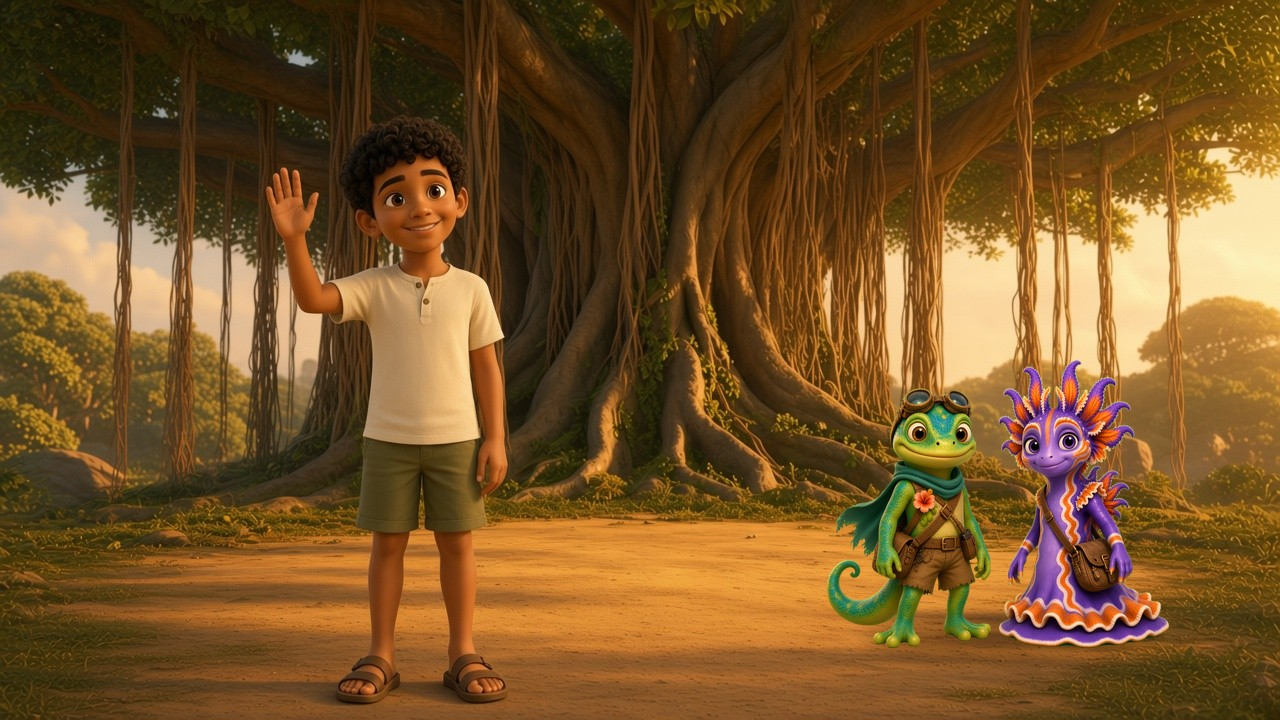
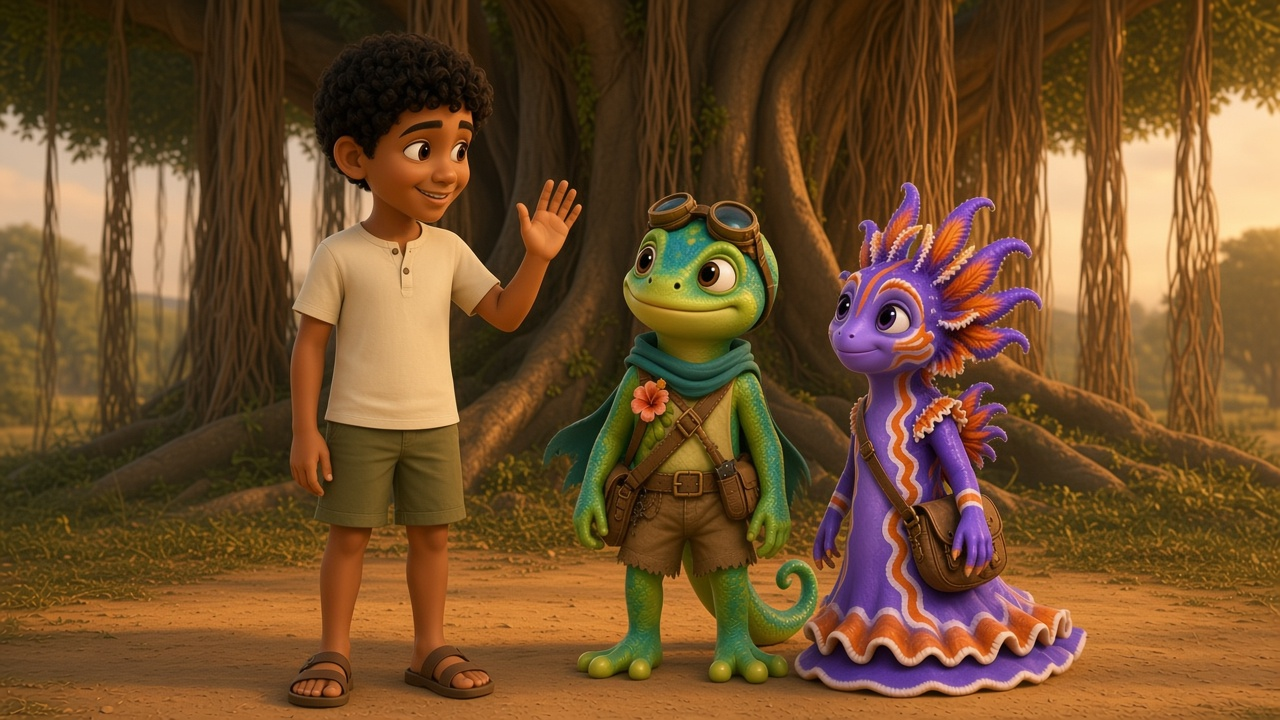
Enlarge the story pictures and paint Sam with Zip and Frill.
Story pages fill most of a laptop screen, and the satchel sentence no longer sits on the picture. Build a word uses large letter tiles. Zip and Frill sticker overlays are off the map, celebrations, and goodbye screen. Sam's first page is one painted scene. Repeat speaks if autoplay is blocked, and the sound-off button stays hidden. Cache ir-20261127u.

diff --git a/js/u11trail.js b/js/u11trail.js
@@ -321,7 +321,13 @@
     home.addEventListener('click', () => go('#/home'));
     back.addEventListener('click', () => { Snd.stop(); clearTimeout(timer); doBack(); });
     forward.addEventListener('click', () => { Snd.stop(); clearTimeout(timer); doNext(); });
-    repeat.addEventListener('click', () => { Snd.stop(); replay(); });
+    repeat.addEventListener('click', () => {
+      Snd.stop();
+      Snd.hideFallback();
+      Snd.unlocked = true;
+      Snd.manual = true;
+      Promise.resolve(replay()).then(() => { Snd.manual = false; }, () => { Snd.manual = false; });
+    });
     const corner = o.corner || 'unit';
     const bar = h('div', { class: 'u11t-bar' + (corner === 'home' ? ' is-home' : ' is-unit') },
       corner === 'home' ? home : unitBtn);
@@ -331,6 +337,7 @@
     screen = h('div', { class: 'screen u11trail' + (showNext ? ' u11t-preview' : ''), 'data-view': o.view || '' },
       bar, top, stage, countEl,
       h('div', { class: 'lesson-nav ir-controls u11t-nav' }, back, repeat, forward));
+    Snd.hideFallback();
     app.append(screen);
     const ctx = {
       stage: stage,
@@ -497,16 +504,8 @@
     if (!endLocked || demo()) end.addEventListener('click', () => { location.hash = '#/u1/u11/trail/end'; });
     else end.disabled = true;
     board.append(end);
-    const toI = Math.min(here, list.length - 1);
-    const fromI = st.moveFrom == null ? toI : Math.min(st.moveFrom, list.length - 1);
     if (st.moveFrom != null) { st.moveFrom = null; save(st); }
-    const marker = h('div', {
-      class: 'u11t-marker',
-      style: 'left:' + list[fromI].x + '%;top:' + list[fromI].y + '%'
-    }, h('span', { class: 'u11t-ground' }), h('img', { src: 'img/u11-zip-frill.png', alt: 'Zip and Frill' }));
-    board.append(marker);
     view.stage.append(h('div', { class: 'u11t-mapwrap' }, gems, board));
-    walkPair(marker, list, fromI, toI, view.scr);
     view.setReplay(() => Snd.play('audio/phonemes/a.mp3'));
   }
 
@@ -602,9 +601,6 @@
     });
     const prize = fresh ? stop.gemName.charAt(0).toUpperCase() + stop.gemName.slice(1) + '.' : 'Gem safe.';
     view.stage.append(h('div', { class: 'u11t-celebrate' },
-      h('div', { class: 'u11t-cast' },
-        h('span', { class: 'u11t-ground' }),
-        h('img', { src: 'img/u11-zip-frill-cheer.png', alt: 'Zip and Frill' })),
       h('img', { class: 'prize', src: stop.gem, alt: '' }),
       h('p', { class: 'u11t-line' }, prize)));
     Snd.seq([SFX.ding, SFX.done], 120);
@@ -621,9 +617,6 @@
       onNext() { location.hash = '#/u1/u11'; }
     });
     view.stage.append(h('div', { class: 'u11t-card' },
-      h('div', { class: 'u11t-faces' },
-        h('img', { src: POSE.cheer, alt: 'Zip' }),
-        h('img', { src: POSE.frillcheer, alt: 'Frill' })),
       h('p', { class: 'u11t-line' }, 'Great job, see you next time.')));
     view.setReplay(() => Snd.play(SFX.done));
     Snd.play(SFX.done);
@@ -786,7 +779,7 @@
         onBack() { ctx.prev(); }
       });
       view.stage.append(h('div', { class: 'u11t-card' },
-        h('img', { class: 'u11t-scene', src: 'img/u11-guides.jpg', alt: 'Zip and Frill in the banyan' }),
+        h('img', { class: 'u11t-scene', src: 'img/u11-forest-wide.jpg', alt: 'The banyan forest' }),
         h('div', { class: 'u11t-letter' }, 'a'),
         h('p', { class: 'u11t-line' }, 'The a says /a/.'),
         h('p', { class: 'u11t-line' }, 'Open wide.'),
@@ -1337,9 +1330,6 @@
       view.setCount(spec.steps.length + ' of ' + spec.steps.length);
       view.stage.append(h('div', { class: 'u11-build', 'data-finale': spec.scene },
         scene,
-        h('div', { class: 'u11t-faces' },
-          h('img', { src: spec.scene === 'raft' ? POSE.surf : POSE.cheer, alt: 'Zip' }),
-          h('img', { src: POSE.frillcheer, alt: 'Frill' })),
         h('p', { class: 'u11t-line' }, spec.done)));
       paintParts();
       step = spec.steps.length;
@@ -1512,7 +1502,7 @@
         onBack() { if (i > 0) { i--; show(); } else if (o.back) o.back(); else finish(); }
       });
       const line = lines[i].line || lines[i];
-      const art = lines[i].art || 'img/u11-guides.jpg';
+      const art = lines[i].art || 'img/u11-forest-wide.jpg';
       view.stage.append(h('div', { class: 'u11t-card' },
         h('img', { class: 'u11t-scene', src: art, alt: '' }),
         h('p', { class: 'u11t-line' }, wordNode(line))));
@@ -1565,9 +1555,6 @@
     for (let i = 0; i < 5; i++) bells.append(h('img', { src: 'img/bell_lit.png', alt: '' }));
     view.stage.append(h('div', { class: 'u11t-card' },
       bells,
-      h('div', { class: 'u11t-faces' },
-        h('img', { src: POSE.bell, alt: 'Zip' }),
-        h('img', { src: POSE.frill, alt: 'Frill' })),
       h('p', { class: 'u11t-joke' }, 'I tap a pan.'),
       h('p', { class: 'u11t-joke' }, 'I tap a map.'),
       h('p', { class: 'u11t-rec' }, 'Recording needed: Zip and Frill say the joke. The bell sounds are ready.')));

diff --git a/u11trail.css b/u11trail.css
@@ -332,8 +332,38 @@ body:not(.teach) .u11t-rec{display:none}
 .u11-scene{position:relative;width:min(100%,34rem);aspect-ratio:16/9;height:auto;max-height:28vh;flex:0 1 auto;min-height:0}
 .u11-satchel{width:auto;height:auto;max-height:none;aspect-ratio:auto}
 .u11-satchel .satchel-art{
-  display:block;width:auto;height:auto;max-width:min(100%,40rem);max-height:min(32vh,15rem);
+  display:block;width:auto;height:auto;max-width:min(62vw,16rem);max-height:22vh;
   object-fit:contain;object-position:center;border-radius:1rem;border:3px solid #2B2540;background:transparent
+}
+@media (max-width:899px){
+  .u11-build{justify-content:flex-start;gap:.55rem;padding-top:.15rem}
+  .u11-build .u11t-line{flex:none;margin:.15rem 0 .05rem}
+  .u11-build .u11t-choice{min-height:4.8rem}
+  .u11-satchel .satchel-art{max-height:20vh;max-width:min(70vw,14rem)}
+}
+@media (min-width:900px){
+  .u11t-book{width:min(100%,92rem);gap:.35rem}
+  .u11t-book .u11t-line{font-size:clamp(2rem,4.4vh,3.1rem)}
+  .u11t-page{width:auto;max-width:100%}
+  .u11t-book .u11t-scene{max-width:80vw;max-height:62vh}
+  .u11trail[data-view="picsent"] .u11t-pic,
+  .u11trail[data-view="picsent"] .u11t-scene{flex:0 0 auto;max-width:min(78vw,62rem);max-height:48vh}
+  .u11trail[data-view="picsent"] .u11t-choice{min-height:clamp(5rem,12vh,7rem)}
+  .u11-build{gap:.85rem}
+  .u11-build .u11t-line{flex:none;position:relative;z-index:2;background:#FFF8E7;padding:.05rem .5rem}
+  .u11-satchel .satchel-art{max-width:min(38vh,18rem);max-height:min(38vh,18rem)}
+  .u11trail[data-view="buildword"] .u11t-prompt{font-size:clamp(2rem,4.6vh,3rem);margin:.2rem 0 .45rem}
+  .u11trail[data-view="buildword"] .u11t-choice{min-height:clamp(8.2rem,22vh,13rem);font-size:clamp(3.2rem,7vh,4.8rem)}
+  .u11trail[data-view="buildword"] .u11t-slot{min-width:clamp(7.4rem,16vh,11rem);height:clamp(7.4rem,16vh,11rem);font-size:clamp(3.6rem,8vh,5.4rem)}
+}
+@media (max-height:740px) and (min-width:900px){
+  .u11t-book .u11t-scene{max-height:56vh;max-width:78vw}
+  .u11trail[data-view="picsent"] .u11t-pic,
+  .u11trail[data-view="picsent"] .u11t-scene{max-height:34vh;max-width:70vw}
+  .u11-satchel .satchel-art{max-width:min(36vh,18rem);max-height:min(36vh,18rem)}
+  .u11trail[data-view="buildword"] .u11t-choice{min-height:clamp(6.6rem,18vh,9rem);font-size:clamp(2.6rem,5.5vh,3.6rem)}
+  .u11trail[data-view="buildword"] .u11t-slot{min-width:clamp(5.8rem,12vh,8rem);height:clamp(5.8rem,12vh,8rem);font-size:clamp(2.8rem,6vh,4rem)}
+  .u11trail[data-view="buildword"] .u11t-prompt{font-size:clamp(1.6rem,3.4vh,2.2rem)}
 }
 .pack{position:absolute;width:18%;border-radius:.35rem;opacity:0;transform:translateY(-10px) scale(.7);transition:.4s}
 .pack.is-on{opacity:1;transform:none}

diff --git a/styles.css b/styles.css
@@ -3872,7 +3872,7 @@ html.teach .u5step .sentact .tile.word{font-size:clamp(1.7rem,4vh,2.4rem)!import
 .slidecalm .slide-controls .ir-btn .ico{width:1.15rem;height:1.15rem;flex:none}
 .slidecalm .slide-controls .ir-btn:disabled{opacity:.4}
 .tmfile.tmsmall,.teachlink.tmsmall{min-height:0;margin:.1rem .15rem .2rem;padding:.05rem;border:0;background:transparent;box-shadow:none;color:#5c5648;font-size:.85rem;font-weight:700;text-decoration:underline}
-body:has(.tmscreen) #soundfix,body:has(.u123step) #soundfix,body:has(.u789step) #soundfix,body:has(.slidecalm) #soundfix{display:none!important}
+body:has(.tmscreen) #soundfix,body:has(.u123step) #soundfix,body:has(.u789step) #soundfix,body:has(.slidecalm) #soundfix,body:has(.u11trail) #soundfix{display:none!important}
 .u123step .nkmeet,.u789step .nkmeet{gap:.25rem}
 .u123step .nkmeet .bubble,.u789step .nkmeet .bubble{padding:.35rem .65rem}
 .u123step .nkmeet .bubble p,.u789step .nkmeet .bubble p{font-size:1.02rem;line-height:1.2;margin:.1rem 0 0}

diff --git a/js/core.js b/js/core.js
@@ -264,7 +264,7 @@
     showFallback() {
       this.blocked = true; if ($('#soundfix')) return;
       /* Teacher materials and Units 1-3 / 7-9 have no sound-off control. */
-      if (/^#\/teachers/.test(location.hash) || /^#\/u[123789](\/|$)/.test(location.hash) || document.querySelector('.tmscreen, .u123step, .u789step, .slidecalm')) return;
+      if (/^#\/teachers/.test(location.hash) || /^#\/u[123789](\/|$)/.test(location.hash) || /^#\/library/.test(location.hash) || document.querySelector('.tmscreen, .u123step, .u789step, .slidecalm, .u11trail')) return;
       const b = h('button', { id: 'soundfix', class: 'soundfix', type: 'button', 'aria-label': 'Sound is off. Tap to turn sound on.' }, icon('speaker'), 'Sound off? Tap to enable');
       b.addEventListener('click', () => { const l = this.last; b.remove(); this.blocked = false; this.unlocked = true; if (l) l(); });
       document.body.append(b);

diff --git a/sw.js b/sw.js
@@ -1,7 +1,7 @@
 /* Island Readers sample service worker.
    Code (HTML/JS/CSS/data) is network-first so a new version always wins; the cache is only an offline fallback.
    Media (images/audio/video) is cache-first. Install never fails because of one file. */
-const CACHE = 'ir-20261127t';
+const CACHE = 'ir-20261127u';
 const ASSETS = [
  "./index.html",
  "./js/wordplay.js",
